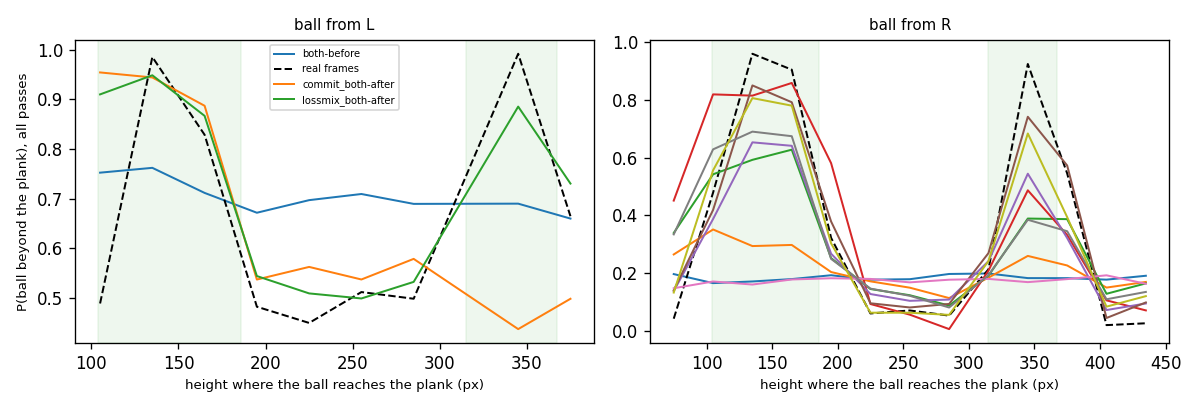
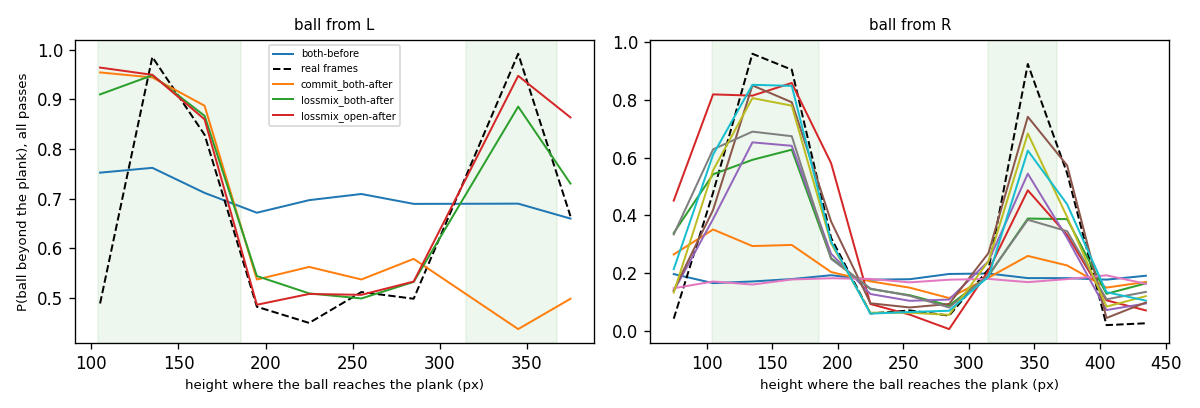
Results overview: Kaggle session #8 (run E with open-table clips, sharp slope readout)
Claude-Session: https://claude.ai/code/session_01V2vSPmgEuWDbjnzF4vheXo

diff --git a/results/overview/RESULTS_OVERVIEW.md b/results/overview/RESULTS_OVERVIEW.md
@@ -1,4 +1,4 @@
-# RobustWorld: results so far (updated 2026-10-11)
+# RobustWorld: results so far (updated 2026-10-11, after Kaggle session #8)
 
 **Question.** A ball rolls under a plank. A hidden blocker under the plank stops some passes
 ("hidden", or "bounce" when the ball comes back). Can V-JEPA 2 learn where the invisible
@@ -16,19 +16,24 @@ blocker is, purely by post-training its predictor on our video?
   from the left** (left clips scored only on held-out folds). C is the best model overall.
 - **The narrow gap is now learnt.** Loss-weighted sampling plus 20 epochs lifts the imagined ball
   in the narrow gap from 0.44 to 0.79 (real frames 0.91).
-- **The table slope is not learnt yet.** The imagined slope term is 0.007, against 0.030 for the
-  real ball, with a CI that includes 0. The frozen decoder's 32 px grid is too coarse to measure
-  the slope even on real frames.
+- **Adding open-table clips to training (run E) changes little for the blockade.** E scores
+  0.959 from the right and 0.922 from the left, against C's 0.961 and 0.893 (CIs overlap).
+- **The table slope is still not learnt, but it can now be measured.** The sharper,
+  untrained position readout finds the real downhill pull on real frames: g_x −0.025 [−0.040,
+  −0.006] against −0.026 for the tracker. The coarse 32 px probe could not do this.
+  - The imagined ball from C and from E shows no downhill pull. E's is +0.013, the wrong sign,
+    with a CI that spans 0.
+  - This is now a model result, not a readout limit.
 
 Sources (all figures here are copies, so they render after `git pull`):
-post-training on PR #3 (`claude/colab-two-day-plan-3gn90a` @ `18840c8`,
-`results/2026-10-04_2110_twoday/`, Kaggle sessions up to #7 on 2026-10-11), probing on PR #4
+post-training on PR #3 (`claude/colab-two-day-plan-3gn90a` @ `0e83019`,
+`results/2026-10-04_2110_twoday/`, Kaggle sessions up to #8, finished 2026-10-11 22:15 UTC), probing on PR #4
 (`claude/vjepa-probing-overnight` @ `919d440`, `results/2026-10-05_0425_vjepa-probing/`),
 zero-shot on `main` (`docs/results/ball_comparison.md`).
 
 > **Plans:** [NEXT_STEPS_PLAN.md](NEXT_STEPS_PLAN.md) (2026-10-09) and
 > [RESEARCH_SCOPE.md](RESEARCH_SCOPE.md) (the run list for the latest Kaggle sessions: B, A, C, slope).
-> **New since 2026-10-08:** sections 4–6 and the updated 8–9.
+> **New in session #8:** run E (section 5d) and the sharp slope readout (section 6).
 
 ---
 
@@ -251,6 +256,7 @@ clips of a direction seen in training.
 | both-before (pretrained) | 0.454 | 0.437 | 0.660 | – |
 | A: commit, both, 10 ep (`commit_both`) | 0.843 | 0.917 | 0.767 | −0.02 to +0.23 (p = 0.05) |
 | **C: commit + loss-weighted, both, 20 ep (`lossmix_both`)** | **0.912** | **0.961** | **0.893** | **+0.10 to +0.36** |
+| E: C + open-table clips in training, 20 ep (`lossmix_open`) | 0.912 | 0.959 | 0.922 | not computed |
 
 **Findings:**
 
@@ -289,7 +295,38 @@ clips). Left panel: the slope term, section 6.*
 - The dip at epoch 1 is probably the predictor leaving its pretrained solution before it
   learns the blockade.
 
-## 6. Table slope: not learnt yet (new)
+### 5d. Run E: C plus the open-table clips in training (new, session #8)
+
+**What E changes.** E is C with the free-rolling, open-table clips added to training. Each clip
+is kept out of the fold that scores it. The aim was more examples of the ball rolling freely, so
+the model could pick up the slope. E took 7 h on a T4.
+
+| run | both sides | ball from R | ball from L | far-cell AUROC | ball hit rate | best epochs |
+|---|---|---|---|---|---|---|
+| C @ 20 | 0.912 | 0.961 | 0.893 | 0.86 | 0.66 | 18/16/20/18/17 |
+| E @ 10 | 0.868 | 0.930 | 0.909 | 0.85 | 0.61 | – |
+| **E @ 20** | 0.912 | 0.959 | **0.922** [0.86, 0.97] | **0.87** | **0.67** | 17/19/19/16/17 |
+
+**Mean imagined P(ball beyond the plank), by height at the plank:**
+
+| run | side | wide gap | narrow gap | blocked middle |
+|---|---|---|---|---|
+| C @ 20 | R | 0.787 | 0.673 | 0.084 |
+| E @ 20 | R | **0.854** | 0.609 | 0.081 |
+| C @ 20 | L | 0.940 | 0.780 (n 7) | 0.517 |
+| E @ 20 | L | 0.949 | **0.891** (n 7) | 0.513 |
+
+**Reading:** E matches C on the blockade, with a slightly better left side. The differences are
+inside the bootstrap intervals, and the left narrow gap has only 7 passes. The open-table clips
+neither help nor hurt the blockade. They also did not teach the slope (section 6).
+
+![E: P(blocked) vs crossing point](figures/pt_crossing_lossmix_open-after.png)
+*E on all 337 plank passes: both through windows are learnt, as with C (normalised-score
+AUROC 0.89, real frames 0.99).*
+
+![E: imagined vs real over time](figures/pt_curves_lossmix_open-after.png)
+
+## 6. Table slope: measurable now, still not learnt (updated in session #8)
 
 **Why test the slope.** The table is slightly tilted (downhill = left in the image). This is a
 second hidden physical property the model could pick up from video.
@@ -310,6 +347,8 @@ the ball's size. Nothing is fitted to read the model.
 | imagined, pretrained | – (ball never drawn clearly) | – | 0 / 0 |
 | imagined, C @ 20, open table | 0.0067 | [−0.015, 0.025] | 8 / 5 |
 | imagined, C @ 20, plank clips | 0.0115 | [−0.031, 0.061] | 16 / 15 |
+| imagined, E @ 20, open table | −0.20 | [−0.53, 0.02] | 4 / 6 |
+| imagined, E @ 20, plank clips | **−0.052** (wrong sign) | [−0.144, −0.005] | 9 / 29 |
 
 **Slope map** (uniform pull over the whole table, friction removed). g_x < 0 means pulled left
 (downhill):
@@ -317,23 +356,32 @@ the ball's size. Nothing is fitted to read the model.
 | track | g_x [95% CI] | stretches |
 |---|---|---|
 | real ball (tracker) | **−0.0265** [−0.030, −0.023] | 955 |
-| frozen probe on real frames | −0.016 [−0.039, +0.029] | 355 |
-| imagined, before post-training | – (no usable stretches) | 0 |
-| imagined, after (C, 20 ep) | +0.007 [−0.012, +0.030] | 144 |
+| frozen probe on real frames (coarse, 32 px cells) | −0.016 [−0.039, +0.029] | 355 |
+| **sharp positions on real frames** (nearest real context patch, untrained) | **−0.025 [−0.040, −0.006]** | 348 |
+| imagined, before post-training (sharp) | – (no usable stretches) | 0 |
+| imagined, after (C, 20 ep) | +0.007 [−0.015, +0.031] | 144 |
+| imagined, after (E: + open clips, sharp) | +0.013 [−0.027, +0.067] | 128 |
 
 ![Slope map](figures/slope_map.png)
-*Left: the real ball is pulled left (downhill) almost everywhere. Second: the frozen probe on
-real frames can't recover this; its 32 px cells are too coarse for accelerations this small.
-Right: the post-trained model's imagined ball shows no consistent downhill pull.*
+*Panel 1: the real ball is pulled left (downhill) almost everywhere. Panels 2–3: the coarse
+probe on real frames can't recover this, but the sharp positions can (−0.025 vs −0.026). Panels
+5–6: the imagined ball from C and E shows no consistent downhill pull; E's cells point either
+way.*
 
 **Reading:**
 
-- The slope result is inconclusive rather than negative. Imagined s is about a fifth of the real
-  value, with a CI that spans 0.
-- There are too few stretches where the imagined ball is visible on open table (n 5–16).
-- The readout is too coarse to see the slope even on real frames.
-- A sharper, untrained position readout is built but not yet scored: the nearest real
-  context patch (`nn_locate`, commit `07baaf3`). It is the next step for this test.
+- **The measurement problem is solved.** The sharp readout is untrained: it takes the nearest
+  real context patch. It recovers the real slope on real frames, so the slope test can now
+  succeed in principle.
+- **The models haven't learnt the slope.** Neither C nor E puts a downhill pull on the imagined
+  ball.
+  - E even shows a wrong-sign slope term on plank clips (−0.052, CI just below 0). It rests on
+    few stretches (9 downhill), and is more likely noise in a faint imagined ball than a real
+    belief.
+- **Adding free-rolling clips did not help.** The slope is about a 1–2 px per step² effect,
+  which the L1 latent loss probably barely rewards.
+- **The bottleneck is how rarely the imagined ball is clear on open table.** It is clear in
+  about 130 stretches against the tracker's 955.
 
 ## 7. Zero-shot baselines (main, older 88-clip set)
 
@@ -363,8 +411,10 @@ different place and the clips were easier. **On the current clips the bar is 0.8
    - Doubling the epochs gained more than any architecture change: the copy gate, the
      multi-hypothesis head and the objectives all made smaller differences.
    - C plateaus at about epoch 15.
-5. **The slope is a measurement problem first.** The readout must see accelerations of about
-   0.03 ball diameters/step² before we can say whether the model learnt the slope.
+5. **The slope is now a model problem, not a measurement problem.** The sharp readout sees the
+   real slope, while C and E don't imagine it, even with open-table clips in training. The blocker
+   (an all-or-nothing event) is learnt easily; a small, continuous force is not, at least with
+   this loss.
 
 ## 9. Future work (updated)
 
@@ -372,9 +422,9 @@ different place and the clips were easier. **On the current clips the bar is 0.8
 
 | priority | run | state / why |
 |---|---|---|
-| 1 | Score the slope with the sharper `nn_locate` positions | Built (`07baaf3`), not scored. Without it, the slope test can't succeed even on real frames. |
-| 2 | **E**: C plus the open-table clips in training, 20 ep | Waiting: `robustworld_clips_open.zip` must be added to the Kaggle dataset. Gives the slope far more free-rolling examples. |
-| 3 | **F**: C for 30 epochs, scored at 25 and 30 | Queued. Tests whether the epoch-15 plateau moves with a longer schedule. |
+| done | Sharp slope readout; **E** (C + open-table clips) | Session #8, sections 5d and 6. |
+| 1 | **F**: C for 30 epochs, scored at 25 and 30 | Queued (next in the plan). Tests whether the epoch-15 plateau moves with a longer schedule. |
+| 2 | Slope-targeted training | A loss that rewards the ball's *trajectory* over the latent, e.g. extra weight on ball tokens late in the clip. The current L1 latent loss barely rewards a 1–2 px/step² effect. |
 | 4 | **D**: the other ball, scored without training | Waiting: the clips and `configs/heldout.json` aren't added yet. First held-out *object* test. |
 | 5 | `interpret` (change maps, layer patching) for C | Only plain has been interpreted. Would show whether both directions share one representation. |
 | – | 3-way bounce score with `away_from_plank` | Ready on PR #4; rescore only. |
@@ -400,8 +450,11 @@ different place and the clips were easier. **On the current clips the bar is 0.8
    - **discrete latent modes** (a small VQ "outcome" latent, learnt self-supervised);
    - an **adversarial** realism term (the discriminator must never see outcome labels);
    - **object-slot sparsity** (keep changes on the ball tokens).
-5. **Slope, done properly.** Score `nn_locate` positions, add open-table clips (run E), and
-   consider a recording with a stronger tilt so the effect is well above the readout's noise.
+5. **Slope, next attempt.** The readout now works, and open-table clips alone didn't help. The
+   next things to try:
+   - weight the loss on the ball's tokens, or roll the prediction out over more steps, so small
+     accelerations compound into a visible position error;
+   - record with a stronger tilt, so the effect is well above the noise of the imagined ball.
 6. **Imitation-from-observation pick-up policy.** Use C to imagine *where and when* the ball
    crosses the line, read through the frozen decoder, and use that as the policy's target.
    - Start with a planner that moves the gripper to the predicted crossing point.
